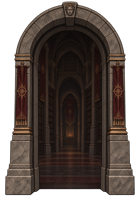
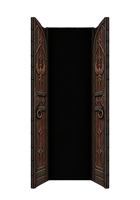
Refine Atrium door cutout framing

diff --git a/Documentation/CelestialDial/ATRIUM-COHESION-2026-09-19.md b/Documentation/CelestialDial/ATRIUM-COHESION-2026-09-19.md
@@ -1,0 +1,24 @@
+# Atrium visual-cohesion assessment
+
+Reviewed against the approved ClickUp Visual Language (`2kyd583p-24354`), art direction (`2kyd583p-24954`), and Decisions Log (`2kyd583p-24214`). The Stage 1 scene remains dusty, muted, and shadow-led. No golden-hour light was added; later light overlays remain separate. The sealed opening stays on the left, and the owner-approved wording and gameplay layout are unchanged.
+
+## Most visible cohesion problems
+
+| Order | What reads as disjointed | Source | Recommended correction |
+| --- | --- | --- | --- |
+| 1 | The Atrium background already paints stone arches around its three recesses. The old open and sealed door cutouts added their own masonry arch and jamb, creating a second portal outline at phone scale. | `Resources/Art/atrium.png`; `Resources/Art/door-open.png`; `Resources/Art/door-sealed.png` | Let the room illustration own the masonry. Keep the transparent door cutouts to the door leaves and their narrow leaf hardware, at the existing 140×200 source size and current gameplay placements. **Implemented in this pass.** |
+| 2 | The small gray labels cross high-detail stone, banners, shelving, and floor. “Shelves, mostly bare” overlaps the shelf; “Sealed door” sits on the recess; “Covered furniture” falls over the floor, while the opening line crosses the upper architecture. At 360×800 the type loses contrast and reads as loose debug annotation. | `atrium.png`; Atrium label/interaction presentation in the current scene implementation | Keep the approved wording and interaction layout. Before repositioning or restyling, get an explicit decision on whether labels should be anchored to objects, placed in reserved negative space, or given another treatment; the approved docs reviewed here do not settle that choice. |
+| 3 | The Caspar dialogue rectangle covers a large part of the lower room and has a clean, screen-space edge against the detailed floor. The scene reads as a full illustration behind an unrelated interface layer. | Existing dialogue presentation and `atrium.png` | Preserve the approved copy and current gameplay layout. Decide how the dialogue treatment should relate to the illustrated room before changing its panel, border, or position; no such treatment is specified in the sources reviewed. |
+| 4 | The door hardware retains crisp brass and burgundy accents while the surrounding stone is broad, dusty, and low-contrast. These details compete slightly at phone size, though the current room palette and existing door palette are both approved. | Door cutouts and `atrium.png` | Keep the door ornament subdued and avoid adding a new light source. Revisit only if a later approved palette decision calls for further desaturation; do not brighten the Stage 1 room or bake in progression lighting. |
+
+## Correction and review
+
+The door cutouts were regenerated to remove the separate stone casing. The sealed door still reads as a door leaf inside the existing left recess; the open version retains narrow leaves and a clear opening. Sprite dimensions, alpha, slots, scene placements, labels, and wording are unchanged.
+
+The updated scene was reviewed in the local WebGL build at 390×844 and 360×800. At both sizes the door stays inside the left recess and no longer brings an extra stone jamb into the composition. The phone captures from the earlier implementation remain at `Evidence/atrium-pass-2026-09-18/390-atrium.png` and `Evidence/atrium-pass-2026-09-18/360-atrium.png`; updated review captures were shown in the task conversation.
+
+## Validation
+
+- Unity `6000.3.24f1`, clean detached checkout at `aeda8fa`, with only the two updated door PNGs copied in: WebGL build succeeded, BuildReport 0 errors / 0 warnings, output size 17,608,253 bytes. Required loader, framework, wasm, data, and `index.html` files were present.
+- Local browser review completed at 390×844 and 360×800. Browser console returned no warnings or errors.
+- The shared production site was not changed. Pull request CI remains required before merge.
